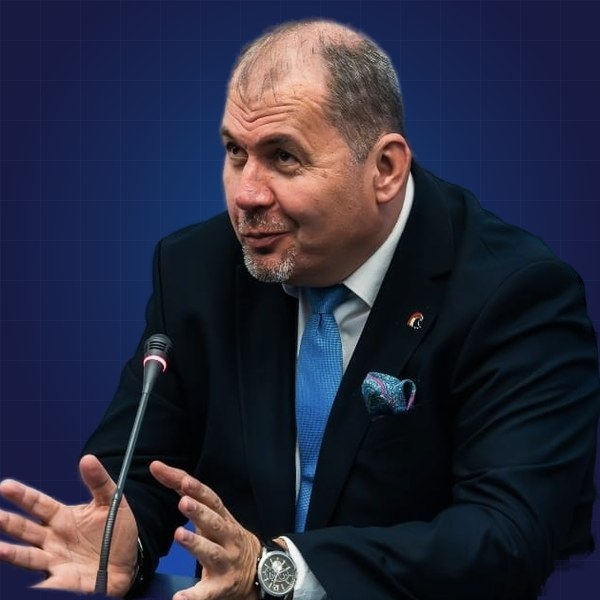
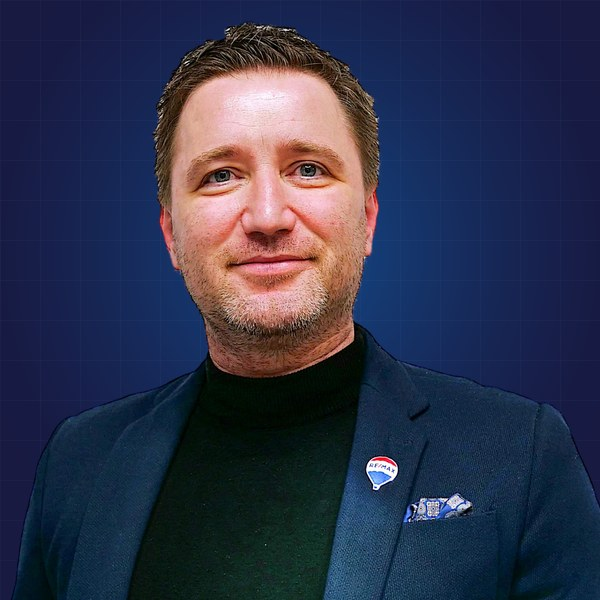
Pozele lui Florin Dragoslav și Sorin Peligrad corectate; funcția lui Florin Dragoslav
Claude-Session: https://claude.ai/code/session_011BFJkjhXaomNcsMMe9voDu

diff --git a/public/eveniment.html b/public/eveniment.html
@@ -31,7 +31,7 @@
 <meta name="twitter:description" content="Evenimentul de lansare JCI Brașov: 26 noiembrie 2026, ora 17:00, CATTIA Brașov. Paneluri cu invitați din business, Blitz Networking, acces gratuit.">
 <meta name="twitter:image" content="https://jci-brasov.com/assets/img/beyond-og-ro.jpg">
 <script type="application/ld+json">{"@context": "https://schema.org", "@type": "BreadcrumbList", "itemListElement": [{"@type": "ListItem", "position": 1, "name": "JCI Brașov", "item": "https://jci-brasov.com/"}, {"@type": "ListItem", "position": 2, "name": "Eveniment", "item": "https://jci-brasov.com/eveniment"}]}</script>
-<script type="application/ld+json">{"@context": "https://schema.org", "@type": "Event", "name": "JCI Brașov Beyond the Initiative", "description": "Evenimentul de lansare JCI Brașov: 26 noiembrie 2026, ora 17:00, CATTIA Brașov. Paneluri cu invitați din business, Blitz Networking, acces gratuit.", "startDate": "2026-11-26T17:00:00+02:00", "endDate": "2026-11-26T22:30:00+02:00", "eventStatus": "https://schema.org/EventScheduled", "eventAttendanceMode": "https://schema.org/OfflineEventAttendanceMode", "isAccessibleForFree": true, "inLanguage": "ro", "location": {"@type": "Place", "name": "CATTIA Brașov", "address": {"@type": "PostalAddress", "streetAddress": "Strada Institutului 35", "addressLocality": "Brașov", "addressCountry": "RO", "addressRegion": "Brașov"}}, "image": ["https://jci-brasov.com/assets/img/beyond-sq-ro.jpg", "https://jci-brasov.com/assets/img/beyond-r43-ro.jpg", "https://jci-brasov.com/assets/img/beyond-og-ro.jpg"], "organizer": {"@type": "Organization", "name": "JCI Brașov", "url": "https://jci-brasov.com/", "email": "contact@jci-brasov.com", "logo": "https://jci-brasov.com/assets/img/icon-512.png"}, "performer": [{"@type": "Person", "name": "Ioana Ceaușu", "jobTitle": "Director operațional", "worksFor": {"@type": "Organization", "name": "The Entrepreneurship Academy"}}, {"@type": "Person", "name": "Rareș Zlătaru", "jobTitle": "Fondator", "worksFor": {"@type": "Organization", "name": "DBV Management & Training"}}, {"@type": "Person", "name": "Bogdan Costaș", "jobTitle": "Director general", "worksFor": {"@type": "Organization", "name": "Aviația Utilitară București"}}, {"@type": "Person", "name": "Ciprian Văcaru", "jobTitle": "Secretar de stat", "worksFor": {"@type": "Organization", "name": "Ministerul Muncii"}}, {"@type": "Person", "name": "Sorin Peligrad"}, {"@type": "Person", "name": "Florin Dragoslav"}], "offers": {"@type": "Offer", "price": "0", "priceCurrency": "RON", "availability": "https://schema.org/InStock", "url": "https://jci-brasov.com/eveniment#rezerva", "validFrom": "2026-11-01T00:00:00+02:00", "validThrough": "2026-11-24T23:59:00+02:00"}, "maximumAttendeeCapacity": 150, "audience": {"@type": "Audience", "audienceType": "Antreprenori, manageri și tineri profesioniști"}}</script>
+<script type="application/ld+json">{"@context": "https://schema.org", "@type": "Event", "name": "JCI Brașov Beyond the Initiative", "description": "Evenimentul de lansare JCI Brașov: 26 noiembrie 2026, ora 17:00, CATTIA Brașov. Paneluri cu invitați din business, Blitz Networking, acces gratuit.", "startDate": "2026-11-26T17:00:00+02:00", "endDate": "2026-11-26T22:30:00+02:00", "eventStatus": "https://schema.org/EventScheduled", "eventAttendanceMode": "https://schema.org/OfflineEventAttendanceMode", "isAccessibleForFree": true, "inLanguage": "ro", "location": {"@type": "Place", "name": "CATTIA Brașov", "address": {"@type": "PostalAddress", "streetAddress": "Strada Institutului 35", "addressLocality": "Brașov", "addressCountry": "RO", "addressRegion": "Brașov"}}, "image": ["https://jci-brasov.com/assets/img/beyond-sq-ro.jpg", "https://jci-brasov.com/assets/img/beyond-r43-ro.jpg", "https://jci-brasov.com/assets/img/beyond-og-ro.jpg"], "organizer": {"@type": "Organization", "name": "JCI Brașov", "url": "https://jci-brasov.com/", "email": "contact@jci-brasov.com", "logo": "https://jci-brasov.com/assets/img/icon-512.png"}, "performer": [{"@type": "Person", "name": "Ioana Ceaușu", "jobTitle": "Director operațional", "worksFor": {"@type": "Organization", "name": "The Entrepreneurship Academy"}}, {"@type": "Person", "name": "Rareș Zlătaru", "jobTitle": "Fondator", "worksFor": {"@type": "Organization", "name": "DBV Management & Training"}}, {"@type": "Person", "name": "Bogdan Costaș", "jobTitle": "Director general", "worksFor": {"@type": "Organization", "name": "Aviația Utilitară București"}}, {"@type": "Person", "name": "Ciprian Văcaru", "jobTitle": "Secretar de stat", "worksFor": {"@type": "Organization", "name": "Ministerul Muncii"}}, {"@type": "Person", "name": "Sorin Peligrad"}, {"@type": "Person", "name": "Florin Dragoslav", "jobTitle": "Broker Owner", "worksFor": {"@type": "Organization", "name": "REMAX Champions Brașov"}}], "offers": {"@type": "Offer", "price": "0", "priceCurrency": "RON", "availability": "https://schema.org/InStock", "url": "https://jci-brasov.com/eveniment#rezerva", "validFrom": "2026-11-01T00:00:00+02:00", "validThrough": "2026-11-24T23:59:00+02:00"}, "maximumAttendeeCapacity": 150, "audience": {"@type": "Audience", "audienceType": "Antreprenori, manageri și tineri profesioniști"}}</script>
 <link rel="preload" href="/assets/fonts/plus-jakarta-sans-latin-wght-normal.woff2" as="font" type="font/woff2" crossorigin>
 <link rel="preload" href="/assets/fonts/plus-jakarta-sans-latin-ext-wght-normal.woff2" as="font" type="font/woff2" crossorigin>
 <link rel="stylesheet" href="assets/css/style.css?v=a6da4e52">
@@ -146,7 +146,7 @@
           <div class="speaker"><img loading="lazy" decoding="async" src="assets/img/rares-zlataru.jpg" alt="Rareș Zlătaru" width="600" height="600"><small>Panelul I</small><b>Rareș Zlătaru</b><span>Fondator, DBV Management &amp; Training</span></div>
           <div class="speaker"><img loading="lazy" decoding="async" src="assets/img/ciprian-vacaru.jpg" alt="Ciprian Văcaru" width="600" height="600"><small>Panelul II</small><b>Ciprian Văcaru</b><span>Secretar de stat, Ministerul Muncii</span></div>
           <div class="speaker"><img loading="lazy" decoding="async" src="assets/img/sorin-peligrad-panel.jpg" alt="Sorin Peligrad" width="600" height="600"><small>Panelul I</small><b>Sorin Peligrad</b><span>Președinte JCI Brașov în 2012, membru Legendary</span></div>
-          <div class="speaker"><img loading="lazy" decoding="async" src="assets/img/florin-dragoslav.jpg" alt="Florin Dragoslav" width="600" height="600"><small>Panelul II</small><b>Florin Dragoslav</b><span>Tehnologia care ne schimbă viața</span></div>
+          <div class="speaker"><img loading="lazy" decoding="async" src="assets/img/florin-dragoslav.jpg" alt="Florin Dragoslav" width="600" height="600"><small>Panelul II</small><b>Florin Dragoslav</b><span>Broker Owner, REMAX Champions Brașov</span></div>
           <div class="speaker tba"><div class="ph">+</div><small>Panelul I</small><span>Invitați anunțați în curând</span></div>
           <div class="speaker tba"><div class="ph">+</div><small>Panelul II</small><span>Invitați anunțați în curând</span></div>
         </div>

diff --git a/public/en/eveniment.html b/public/en/eveniment.html
@@ -31,7 +31,7 @@
 <meta name="twitter:description" content="JCI Brașov launch event: 26 November 2026, 5:00 pm, CATTIA Brașov. Panels with business and public sector speakers, Blitz Networking, free entry.">
 <meta name="twitter:image" content="https://jci-brasov.com/assets/img/beyond-og-en.jpg">
 <script type="application/ld+json">{"@context": "https://schema.org", "@type": "BreadcrumbList", "itemListElement": [{"@type": "ListItem", "position": 1, "name": "JCI Brașov", "item": "https://jci-brasov.com/en/"}, {"@type": "ListItem", "position": 2, "name": "Event", "item": "https://jci-brasov.com/en/eveniment"}]}</script>
-<script type="application/ld+json">{"@context": "https://schema.org", "@type": "Event", "name": "JCI Brașov Beyond the Initiative", "description": "JCI Brașov launch event: 26 November 2026, 5:00 pm, CATTIA Brașov. Panels with business and public sector speakers, Blitz Networking, free entry.", "startDate": "2026-11-26T17:00:00+02:00", "endDate": "2026-11-26T22:30:00+02:00", "eventStatus": "https://schema.org/EventScheduled", "eventAttendanceMode": "https://schema.org/OfflineEventAttendanceMode", "isAccessibleForFree": true, "inLanguage": "ro", "location": {"@type": "Place", "name": "CATTIA Brașov", "address": {"@type": "PostalAddress", "streetAddress": "Strada Institutului 35", "addressLocality": "Brașov", "addressCountry": "RO", "addressRegion": "Brașov"}}, "image": ["https://jci-brasov.com/assets/img/beyond-sq-en.jpg", "https://jci-brasov.com/assets/img/beyond-r43-en.jpg", "https://jci-brasov.com/assets/img/beyond-og-en.jpg"], "organizer": {"@type": "Organization", "name": "JCI Brașov", "url": "https://jci-brasov.com/", "email": "contact@jci-brasov.com", "logo": "https://jci-brasov.com/assets/img/icon-512.png"}, "performer": [{"@type": "Person", "name": "Ioana Ceaușu", "jobTitle": "Director operațional", "worksFor": {"@type": "Organization", "name": "The Entrepreneurship Academy"}}, {"@type": "Person", "name": "Rareș Zlătaru", "jobTitle": "Fondator", "worksFor": {"@type": "Organization", "name": "DBV Management & Training"}}, {"@type": "Person", "name": "Bogdan Costaș", "jobTitle": "Director general", "worksFor": {"@type": "Organization", "name": "Aviația Utilitară București"}}, {"@type": "Person", "name": "Ciprian Văcaru", "jobTitle": "Secretar de stat", "worksFor": {"@type": "Organization", "name": "Ministerul Muncii"}}, {"@type": "Person", "name": "Sorin Peligrad"}, {"@type": "Person", "name": "Florin Dragoslav"}], "offers": {"@type": "Offer", "price": "0", "priceCurrency": "RON", "availability": "https://schema.org/InStock", "url": "https://jci-brasov.com/en/eveniment#rezerva", "validFrom": "2026-11-01T00:00:00+02:00", "validThrough": "2026-11-24T23:59:00+02:00"}, "maximumAttendeeCapacity": 150, "audience": {"@type": "Audience", "audienceType": "Entrepreneurs, managers and young professionals"}}</script>
+<script type="application/ld+json">{"@context": "https://schema.org", "@type": "Event", "name": "JCI Brașov Beyond the Initiative", "description": "JCI Brașov launch event: 26 November 2026, 5:00 pm, CATTIA Brașov. Panels with business and public sector speakers, Blitz Networking, free entry.", "startDate": "2026-11-26T17:00:00+02:00", "endDate": "2026-11-26T22:30:00+02:00", "eventStatus": "https://schema.org/EventScheduled", "eventAttendanceMode": "https://schema.org/OfflineEventAttendanceMode", "isAccessibleForFree": true, "inLanguage": "ro", "location": {"@type": "Place", "name": "CATTIA Brașov", "address": {"@type": "PostalAddress", "streetAddress": "Strada Institutului 35", "addressLocality": "Brașov", "addressCountry": "RO", "addressRegion": "Brașov"}}, "image": ["https://jci-brasov.com/assets/img/beyond-sq-en.jpg", "https://jci-brasov.com/assets/img/beyond-r43-en.jpg", "https://jci-brasov.com/assets/img/beyond-og-en.jpg"], "organizer": {"@type": "Organization", "name": "JCI Brașov", "url": "https://jci-brasov.com/", "email": "contact@jci-brasov.com", "logo": "https://jci-brasov.com/assets/img/icon-512.png"}, "performer": [{"@type": "Person", "name": "Ioana Ceaușu", "jobTitle": "Director operațional", "worksFor": {"@type": "Organization", "name": "The Entrepreneurship Academy"}}, {"@type": "Person", "name": "Rareș Zlătaru", "jobTitle": "Fondator", "worksFor": {"@type": "Organization", "name": "DBV Management & Training"}}, {"@type": "Person", "name": "Bogdan Costaș", "jobTitle": "Director general", "worksFor": {"@type": "Organization", "name": "Aviația Utilitară București"}}, {"@type": "Person", "name": "Ciprian Văcaru", "jobTitle": "Secretar de stat", "worksFor": {"@type": "Organization", "name": "Ministerul Muncii"}}, {"@type": "Person", "name": "Sorin Peligrad"}, {"@type": "Person", "name": "Florin Dragoslav", "jobTitle": "Broker Owner", "worksFor": {"@type": "Organization", "name": "REMAX Champions Brașov"}}], "offers": {"@type": "Offer", "price": "0", "priceCurrency": "RON", "availability": "https://schema.org/InStock", "url": "https://jci-brasov.com/en/eveniment#rezerva", "validFrom": "2026-11-01T00:00:00+02:00", "validThrough": "2026-11-24T23:59:00+02:00"}, "maximumAttendeeCapacity": 150, "audience": {"@type": "Audience", "audienceType": "Entrepreneurs, managers and young professionals"}}</script>
 <link rel="preload" href="/assets/fonts/plus-jakarta-sans-latin-wght-normal.woff2" as="font" type="font/woff2" crossorigin>
 <link rel="preload" href="/assets/fonts/plus-jakarta-sans-latin-ext-wght-normal.woff2" as="font" type="font/woff2" crossorigin>
 <link rel="stylesheet" href="../assets/css/style.css?v=a6da4e52">
@@ -146,7 +146,7 @@
           <div class="speaker"><img loading="lazy" decoding="async" src="../assets/img/rares-zlataru.jpg" alt="Rareș Zlătaru" width="600" height="600"><small>Panel I</small><b>Rareș Zlătaru</b><span>Founder, DBV Management &amp; Training</span></div>
           <div class="speaker"><img loading="lazy" decoding="async" src="../assets/img/ciprian-vacaru.jpg" alt="Ciprian Văcaru" width="600" height="600"><small>Panel II</small><b>Ciprian Văcaru</b><span>State Secretary, Ministry of Labour</span></div>
           <div class="speaker"><img loading="lazy" decoding="async" src="../assets/img/sorin-peligrad-panel.jpg" alt="Sorin Peligrad" width="600" height="600"><small>Panel I</small><b>Sorin Peligrad</b><span>JCI Brașov President in 2012, Legendary member</span></div>
-          <div class="speaker"><img loading="lazy" decoding="async" src="../assets/img/florin-dragoslav.jpg" alt="Florin Dragoslav" width="600" height="600"><small>Panel II</small><b>Florin Dragoslav</b><span>Technology that changes our lives</span></div>
+          <div class="speaker"><img loading="lazy" decoding="async" src="../assets/img/florin-dragoslav.jpg" alt="Florin Dragoslav" width="600" height="600"><small>Panel II</small><b>Florin Dragoslav</b><span>Broker Owner, REMAX Champions Brașov</span></div>
           <div class="speaker tba"><div class="ph">+</div><small>Panel I</small><span>Speakers to be announced</span></div>
           <div class="speaker tba"><div class="ph">+</div><small>Panel II</small><span>Speakers to be announced</span></div>
         </div>

diff --git a/worker/kb.js b/worker/kb.js
@@ -18,7 +18,7 @@ EVENIMENTUL BEYOND THE INITIATIVE
 - Acces: gratuit, cu înscriere obligatorie prin formularul de pe pagina evenimentului (/eveniment#rezerva). Înscrierea durează sub un minut, confirmarea vine imediat. Aproximativ 150 de locuri. Înscrierile se închid pe 24 noiembrie 2026, ora 23:59. După ocuparea sălii, înscrierile intră pe lista de așteptare.
 - Program: 17:00 primirea invitaților (check-in, ecusoane, networking, standurile partenerilor); 17:30 deschiderea oficială; 17:45 Panelul I „Puterea comunității”; 18:45 Blitz Networking 1 „Cunoaștere”; 19:20 pauză (băuturi, standuri); 19:35 Panelul II „Tehnologia care ne schimbă viața. Progres sau dependență?” (inteligența artificială, piața muncii, competențele viitorului); 20:35 Blitz Networking 2 „Colaborare”; 21:10 viitorul JCI Brașov; 21:25 networking liber și încheiere.
 - Blitz Networking: două sesiuni în grupuri mici, fiecare participant are un minut să se prezinte; obiectiv: peste 24 de contacte noi într-o seară.
-- Invitați anunțați: Panelul I: Ioana Ceaușu (Director operațional, The Entrepreneurship Academy), Rareș Zlătaru (Fondator, DBV Management & Training), Sorin Peligrad (președinte JCI Brașov în 2012, membru Legendary). Panelul II: Bogdan Costaș (Director general, Aviația Utilitară București), Ciprian Văcaru (Secretar de stat, Ministerul Muncii), Florin Dragoslav. În total opt invitați; ceilalți se anunță în curând.
+- Invitați anunțați: Panelul I: Ioana Ceaușu (Director operațional, The Entrepreneurship Academy), Rareș Zlătaru (Fondator, DBV Management & Training), Sorin Peligrad (președinte JCI Brașov în 2012, membru Legendary). Panelul II: Bogdan Costaș (Director general, Aviația Utilitară București), Ciprian Văcaru (Secretar de stat, Ministerul Muncii), Florin Dragoslav (Broker Owner, REMAX Champions Brașov; agenția a fost în 2025 pe locul 1 în rețeaua REMAX România la productivitatea medie per agent; fost JTAC în armată, specialist în coordonarea sprijinului aerian; își construiește singur instrumentele AI folosite zilnic de echipă, de la generarea contractelor la asistenți de negociere). În total opt invitați; ceilalți se anunță în curând.
 - Întrebările trimise la înscriere ajung la moderatori și stau la baza discuțiilor din paneluri.
 - Nu trebuie să fii membru JCI. Sunt bineveniți și cei peste 40 de ani (antreprenori, mentori, parteneri). Poți veni cu un coleg dacă fiecare se înscrie separat.
 - Datele de la înscriere se folosesc doar pentru organizare și, dacă persoana a bifat, pentru invitații la evenimentele JCI Brașov; numele, emailul și telefonul ajung la BCR Asigurări numai dacă persoana a bifat separat acordul pentru asta; altor organizații nu se transmit.

diff --git a/src/source-onepage.html b/src/source-onepage.html
@@ -432,7 +432,7 @@ footer{background:#0B0920;color:#A9ABC8;padding:48px 0 40px;font-size:14px}
           <div class="speaker"><img src="assets/img/rares-zlataru.jpg" alt="Rareș Zlătaru" width="600" height="600"><small>Panelul I</small><b>Rareș Zlătaru</b><span>Fondator, DBV Management &amp; Training</span></div>
           <div class="speaker"><img src="assets/img/ciprian-vacaru.jpg" alt="Ciprian Văcaru" width="600" height="600"><small>Panelul II</small><b>Ciprian Văcaru</b><span>Secretar de stat, Ministerul Muncii</span></div>
           <div class="speaker"><img loading="lazy" decoding="async" src="assets/img/sorin-peligrad-panel.jpg" alt="Sorin Peligrad" width="600" height="600"><small>Panelul I</small><b>Sorin Peligrad</b><span>Președinte JCI Brașov în 2012, membru Legendary</span></div>
-          <div class="speaker"><img loading="lazy" decoding="async" src="assets/img/florin-dragoslav.jpg" alt="Florin Dragoslav" width="600" height="600"><small>Panelul II</small><b>Florin Dragoslav</b><span>Tehnologia care ne schimbă viața</span></div>
+          <div class="speaker"><img loading="lazy" decoding="async" src="assets/img/florin-dragoslav.jpg" alt="Florin Dragoslav" width="600" height="600"><small>Panelul II</small><b>Florin Dragoslav</b><span>Broker Owner, REMAX Champions Brașov</span></div>
           <div class="speaker tba"><div class="ph">+</div><small>Panelul I</small><span>Invitați anunțați în curând</span></div>
           <div class="speaker tba"><div class="ph">+</div><small>Panelul II</small><span>Invitați anunțați în curând</span></div>
         </div>

diff --git a/src/body-en.html b/src/body-en.html
@@ -132,7 +132,7 @@
           <div class="speaker"><img src="assets/img/rares-zlataru.jpg" alt="Rareș Zlătaru" width="600" height="600"><small>Panel I</small><b>Rareș Zlătaru</b><span>Founder, DBV Management &amp; Training</span></div>
           <div class="speaker"><img src="assets/img/ciprian-vacaru.jpg" alt="Ciprian Văcaru" width="600" height="600"><small>Panel II</small><b>Ciprian Văcaru</b><span>State Secretary, Ministry of Labour</span></div>
           <div class="speaker"><img loading="lazy" decoding="async" src="assets/img/sorin-peligrad-panel.jpg" alt="Sorin Peligrad" width="600" height="600"><small>Panel I</small><b>Sorin Peligrad</b><span>JCI Brașov President in 2012, Legendary member</span></div>
-          <div class="speaker"><img loading="lazy" decoding="async" src="assets/img/florin-dragoslav.jpg" alt="Florin Dragoslav" width="600" height="600"><small>Panel II</small><b>Florin Dragoslav</b><span>Technology that changes our lives</span></div>
+          <div class="speaker"><img loading="lazy" decoding="async" src="assets/img/florin-dragoslav.jpg" alt="Florin Dragoslav" width="600" height="600"><small>Panel II</small><b>Florin Dragoslav</b><span>Broker Owner, REMAX Champions Brașov</span></div>
           <div class="speaker tba"><div class="ph">+</div><small>Panel I</small><span>Speakers to be announced</span></div>
           <div class="speaker tba"><div class="ph">+</div><small>Panel II</small><span>Speakers to be announced</span></div>
         </div>
